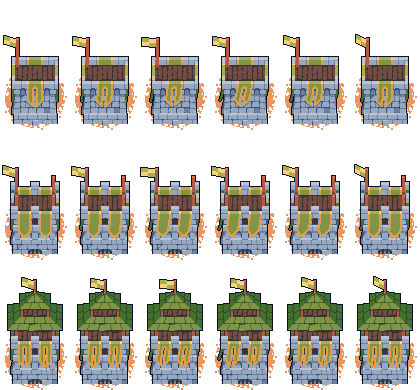
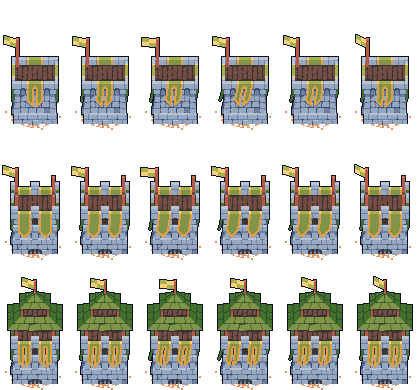
Patched base tower creation.

diff --git a/gamemapdialog.cpp b/gamemapdialog.cpp
@@ -245,7 +245,7 @@ void GameMapDialog::drawMap()
     bitcoinIcon->setPos(10 + 5, 8);
     bitcoinText->setPos(10 + 32 + 8, 10);
 
-    floodFill(); // Call flood fill algorithm.
+    buildTower(base, baseRow, baseCol); // Build base tower and run flooding algorithm.
 }
 
 void GameMapDialog::floodFill()
@@ -261,12 +261,13 @@ void GameMapDialog::floodFill()
     {
         for (int j=0; j<2*mapWidth; ++j)
         {
-            tileGrid[i][j]->dist = -1;
-            tileGrid[i][j]->next = nullptr;
+            if (tileGrid[i][j] != nullptr)
+            {
+                tileGrid[i][j]->dist = -1;
+                tileGrid[i][j]->next = nullptr;
+            }
         }
     }
-
-    buildTower(base, baseRow, baseCol);
 
     Tile* baseTile = tileGrid[baseRow][baseCol];
     baseTile->dist = 0; // Set destination distance to be zero.
@@ -287,33 +288,33 @@ void GameMapDialog::floodFill()
             int adjCol = col;
             switch (i)
             {
-                case 0: // N:
+                case 0: // NW:
+                    --adjRow;
+                    --adjCol;
+                break;
+                case 1: // SW:
+                    ++adjRow;
+                    --adjCol;
+                break;
+                case 2: // SE:
+                    ++adjRow;
+                    ++adjCol;
+                break;
+                case 3: // NE:
+                    --adjRow;
+                    ++adjCol;
+                break;
+                case 4: // N:
                     adjRow -= 2;
                 break;
-                case 1: // W:
+                case 5: // W:
                     adjCol -= 2;
                 break;
-                case 2: // S:
+                case 6: // S:
                     adjRow += 2;
                 break;
-                case 3: // E:
+                case 7: // E:
                     adjCol += 2;
-                break;
-                case 4: // NW:
-                    --adjRow;
-                    --adjCol;
-                break;
-                case 5: // SW:
-                    ++adjRow;
-                    --adjCol;
-                break;
-                case 6: // SE:
-                    ++adjRow;
-                    ++adjCol;
-                break;
-                case 7: // NE:
-                    --adjRow;
-                    ++adjCol;
                 break;
             }
 
@@ -333,7 +334,7 @@ void GameMapDialog::floodFill()
         }
     }
 
-    qDebug() << "Calculated shortest paths.";
+    qDebug() << "Game map flooded.";
 }
 
 void GameMapDialog::updateGame()

diff --git a/tile.cpp b/tile.cpp
@@ -45,7 +45,7 @@ Tile::Tile(int tileType, int barrierType, int r, int c) : QObject(), QGraphicsPi
             rowPixmap = rand()%3 + 8;
             colPixmap = 0;
         break;
-        case -1: // Base Tower position: (use brick variant)
+        case 6: // Base Tower position: (use brick variant)
             rowPixmap = rand()%3 + 8;
             colPixmap = 0;
             isBase = true;

diff --git a/tower.cpp b/tower.cpp
@@ -35,7 +35,7 @@ Tower::Tower(towerType t) : QObject(), QGraphicsPixmapItem()
         break;
         case base:
             path = ":/resources/images/towers/archer_tower.png";
-            cost = 150; damage = 100; fireRate = 5; range = 10;
+            cost = 0; damage = 0; fireRate = 0; range = 0; health = 500;
         break;
     }
     pixmap = new QPixmap(path);
